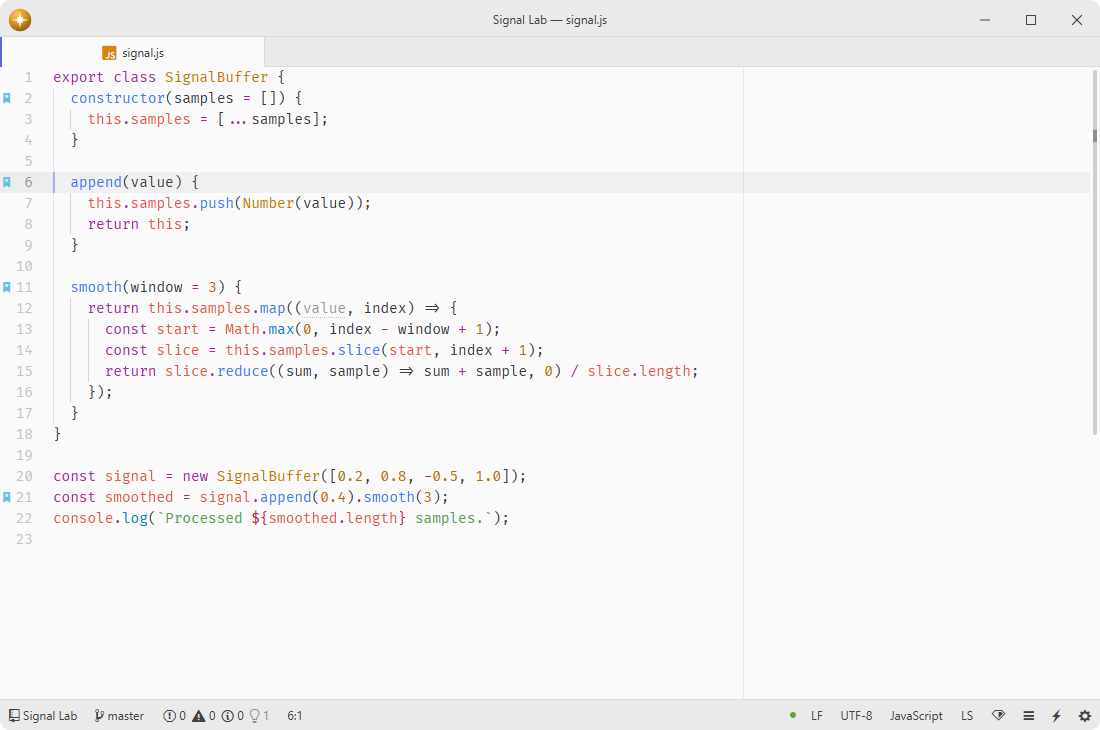
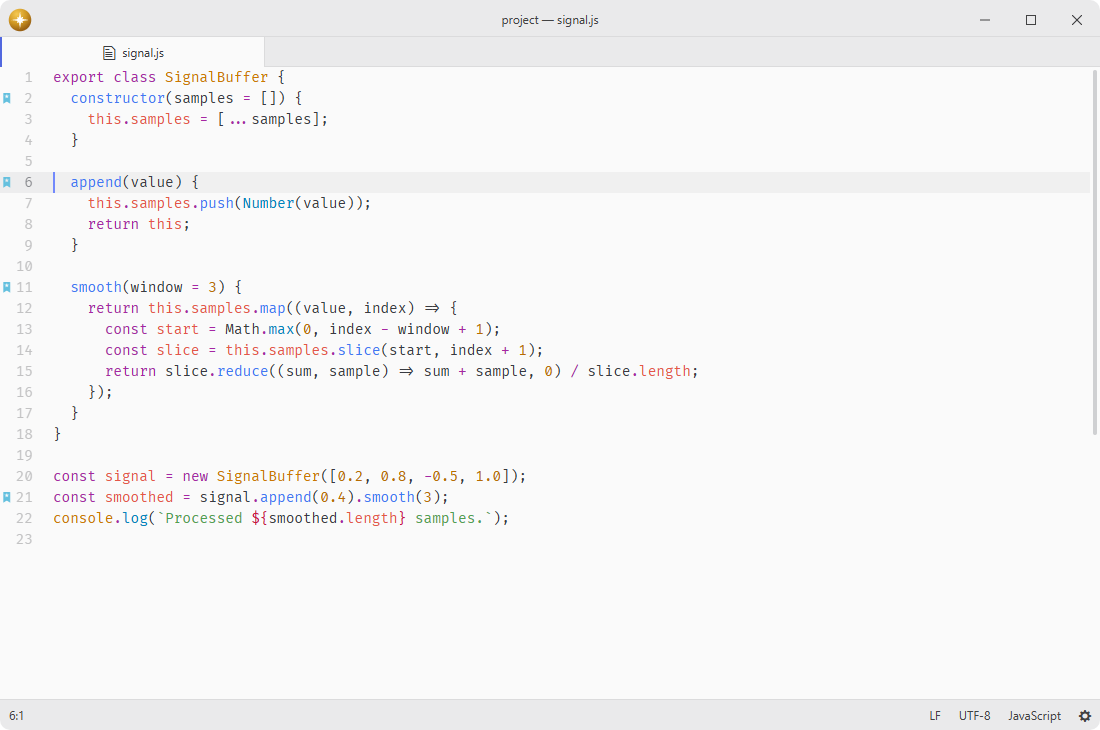
Refresh the bookmark screenshot with its reproducible recipe

diff --git a/eslint.config.js b/eslint.config.js
@@ -8,7 +8,7 @@ const prettier = require("eslint-config-prettier");
 const runtimeModules = ["lumine"];
 
 module.exports = [
-  { ignores: ["spec/fixtures/**"] },
+  { ignores: ["spec/fixtures/**", "demo/**"] },
   js.configs.recommended,
   n.configs["flat/recommended-script"],
   {

diff --git a/README.md b/README.md
@@ -11,7 +11,7 @@ Fork of [pulsar-edit/pulsar](https://github.com/pulsar-edit/pulsar) (`packages/b
 - **Range selection**: select the text between the cursor and the surrounding bookmarks.
 - **Bookmark browser**: view all bookmarks across open editors and jump straight to one.
 
-![Bookmark important lines while navigating a source file.](.github/demo.png)
+![Bookmark important lines and navigate between them in the editor.](.github/demo.png)
 
 ## Installation
 
